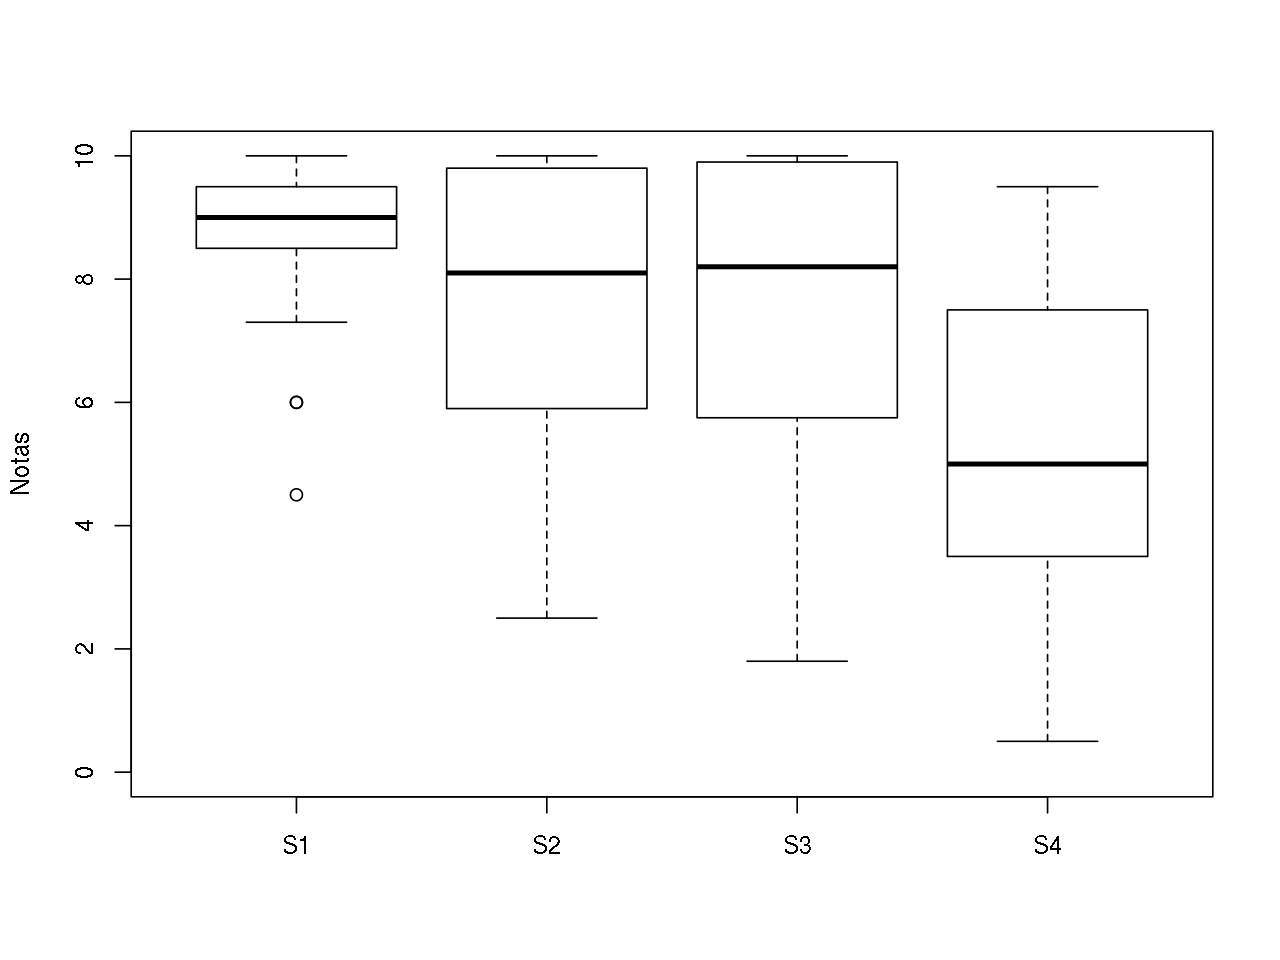
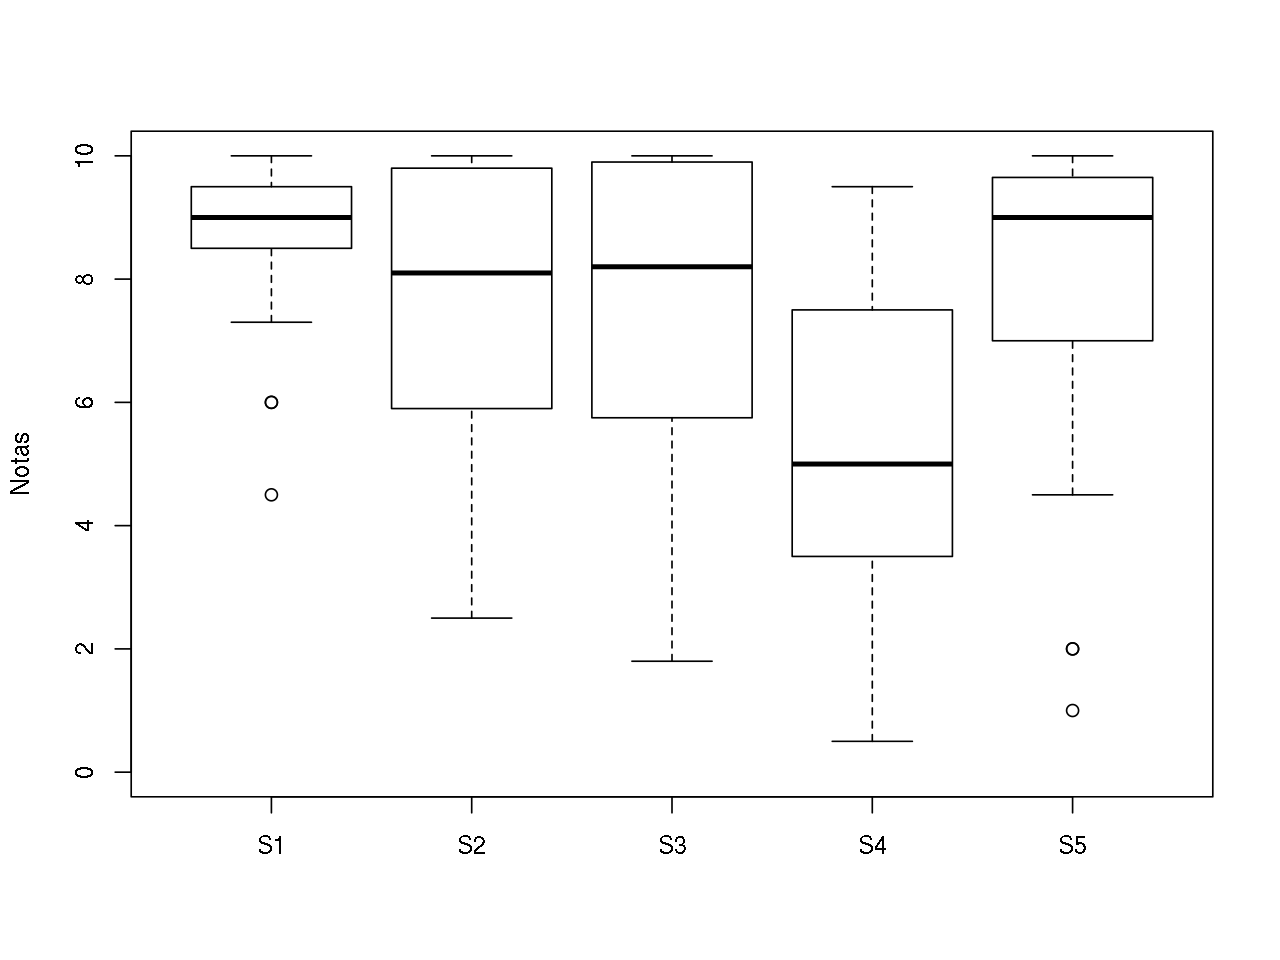
Results from S5

diff --git a/notas.html b/notas.html
@@ -291,7 +291,7 @@ boxplot(notas.all, horizontal = TRUE, ylim = c(0, 10),
 }
 round(statm(notas.all), 2)</code></pre>
 <pre><code>  Min    Q1    Q2    Q3   Max Média     s   NAs 
- 0.50  5.40  8.00  9.50 10.00  7.27  2.46 13.00 </code></pre>
+ 0.50  5.50  8.00  9.50 10.00  7.35  2.46 18.00 </code></pre>
 </div>
 <div id="resumos-por-prova" class="section level2">
 <h2>Resumos por prova</h2>
@@ -301,15 +301,15 @@ boxplot(notas[, notas.col], ylim = c(0, 10), ylab = &quot;Notas&quot;)</code></p
 <p><img src="figures/unnamed-chunk-4-1.png" width="640" style="display: block; margin: auto;" /></p>
 <p>Resumo dos cinco números, média, desvio-padrão, e número de provas não realizadas (NA):</p>
 <pre class="r"><code>round(apply(notas[, notas.col], 2, statm), 2)</code></pre>
-<pre><code>         S1    S2    S3   S4
-Min    4.50  2.50  1.80 0.50
-Q1     8.50  5.90  5.75 3.50
-Q2     9.00  8.10  8.20 5.00
-Q3     9.50  9.80  9.90 7.50
-Max   10.00 10.00 10.00 9.50
-Média  8.74  7.44  7.70 5.19
-s      1.21  2.39  2.20 2.41
-NAs    3.00  3.00  4.00 3.00</code></pre>
+<pre><code>         S1    S2    S3   S4    S5
+Min    4.50  2.50  1.80 0.50  1.00
+Q1     8.50  5.90  5.75 3.50  7.00
+Q2     9.00  8.10  8.20 5.00  9.00
+Q3     9.50  9.80  9.90 7.50  9.65
+Max   10.00 10.00 10.00 9.50 10.00
+Média  8.74  7.44  7.70 5.19  7.71
+s      1.21  2.39  2.20 2.41  2.44
+NAs    3.00  3.00  4.00 3.00  5.00</code></pre>
 </div>
 <div id="notas-individuais" class="section level2">
 <h2>Notas individuais</h2>
@@ -322,6 +322,7 @@ NAs    3.00  3.00  4.00 3.00</code></pre>
 <th align="center">S2</th>
 <th align="center">S3</th>
 <th align="center">S4</th>
+<th align="center">S5</th>
 </tr>
 </thead>
 <tbody>
@@ -331,6 +332,7 @@ NAs    3.00  3.00  4.00 3.00</code></pre>
 <td align="center">5.9</td>
 <td align="center">1.8</td>
 <td align="center">4.0</td>
+<td align="center">7.0</td>
 </tr>
 <tr class="even">
 <td align="center">20124652</td>
@@ -338,6 +340,7 @@ NAs    3.00  3.00  4.00 3.00</code></pre>
 <td align="center">5.3</td>
 <td align="center">2.9</td>
 <td align="center">0.5</td>
+<td align="center">7.0</td>
 </tr>
 <tr class="odd">
 <td align="center">20136720</td>
@@ -345,6 +348,7 @@ NAs    3.00  3.00  4.00 3.00</code></pre>
 <td align="center">9.8</td>
 <td align="center">9.9</td>
 <td align="center">5.0</td>
+<td align="center">9.0</td>
 </tr>
 <tr class="even">
 <td align="center">20149073</td>
@@ -352,6 +356,7 @@ NAs    3.00  3.00  4.00 3.00</code></pre>
 <td align="center">7.0</td>
 <td align="center">8.0</td>
 <td align="center">3.0</td>
+<td align="center">8.0</td>
 </tr>
 <tr class="odd">
 <td align="center">20149110</td>
@@ -359,6 +364,7 @@ NAs    3.00  3.00  4.00 3.00</code></pre>
 <td align="center">8.1</td>
 <td align="center">7.0</td>
 <td align="center">5.5</td>
+<td align="center">7.0</td>
 </tr>
 <tr class="even">
 <td align="center">20149145</td>
@@ -366,6 +372,7 @@ NAs    3.00  3.00  4.00 3.00</code></pre>
 <td align="center">2.5</td>
 <td align="center">5.3</td>
 <td align="center">5.5</td>
+<td align="center">9.0</td>
 </tr>
 <tr class="odd">
 <td align="center">20150149</td>
@@ -373,6 +380,7 @@ NAs    3.00  3.00  4.00 3.00</code></pre>
 <td align="center">2.5</td>
 <td align="center">6.7</td>
 <td align="center">0.5</td>
+<td align="center">6.0</td>
 </tr>
 <tr class="even">
 <td align="center">20150417</td>
@@ -380,6 +388,7 @@ NAs    3.00  3.00  4.00 3.00</code></pre>
 <td align="center">10.0</td>
 <td align="center">10.0</td>
 <td align="center">8.0</td>
+<td align="center">10.0</td>
 </tr>
 <tr class="odd">
 <td align="center">20150452</td>
@@ -387,6 +396,7 @@ NAs    3.00  3.00  4.00 3.00</code></pre>
 <td align="center">3.0</td>
 <td align="center">5.5</td>
 <td align="center">5.0</td>
+<td align="center">9.0</td>
 </tr>
 <tr class="even">
 <td align="center">20150470</td>
@@ -394,6 +404,7 @@ NAs    3.00  3.00  4.00 3.00</code></pre>
 <td align="center">6.0</td>
 <td align="center">6.0</td>
 <td align="center">3.0</td>
+<td align="center">1.0</td>
 </tr>
 <tr class="odd">
 <td align="center">20150836</td>
@@ -401,6 +412,7 @@ NAs    3.00  3.00  4.00 3.00</code></pre>
 <td align="center">10.0</td>
 <td align="center">10.0</td>
 <td align="center">8.0</td>
+<td align="center">10.0</td>
 </tr>
 <tr class="even">
 <td align="center">20150978</td>
@@ -408,6 +420,7 @@ NAs    3.00  3.00  4.00 3.00</code></pre>
 <td align="center">9.8</td>
 <td align="center">10.0</td>
 <td align="center">7.5</td>
+<td align="center">10.0</td>
 </tr>
 <tr class="odd">
 <td align="center">20151292</td>
@@ -415,6 +428,7 @@ NAs    3.00  3.00  4.00 3.00</code></pre>
 <td align="center">7.0</td>
 <td align="center">8.9</td>
 <td align="center">1.5</td>
+<td align="center">6.0</td>
 </tr>
 <tr class="even">
 <td align="center">20151516</td>
@@ -422,6 +436,7 @@ NAs    3.00  3.00  4.00 3.00</code></pre>
 <td align="center">10.0</td>
 <td align="center">9.9</td>
 <td align="center">5.0</td>
+<td align="center">9.5</td>
 </tr>
 <tr class="odd">
 <td align="center">20152147</td>
@@ -429,6 +444,7 @@ NAs    3.00  3.00  4.00 3.00</code></pre>
 <td align="center">6.5</td>
 <td align="center">5.3</td>
 <td align="center">4.5</td>
+<td align="center">7.0</td>
 </tr>
 <tr class="even">
 <td align="center">20152591</td>
@@ -436,9 +452,11 @@ NAs    3.00  3.00  4.00 3.00</code></pre>
 <td align="center">9.5</td>
 <td align="center">8.4</td>
 <td align="center">7.5</td>
+<td align="center">10.0</td>
 </tr>
 <tr class="odd">
 <td align="center">20152736</td>
+<td align="center">NA</td>
 <td align="center">NA</td>
 <td align="center">NA</td>
 <td align="center">NA</td>
@@ -450,6 +468,7 @@ NAs    3.00  3.00  4.00 3.00</code></pre>
 <td align="center">NA</td>
 <td align="center">NA</td>
 <td align="center">NA</td>
+<td align="center">NA</td>
 </tr>
 <tr class="odd">
 <td align="center">20152988</td>
@@ -457,6 +476,7 @@ NAs    3.00  3.00  4.00 3.00</code></pre>
 <td align="center">9.8</td>
 <td align="center">7.0</td>
 <td align="center">7.5</td>
+<td align="center">10.0</td>
 </tr>
 <tr class="even">
 <td align="center">20153016</td>
@@ -464,6 +484,7 @@ NAs    3.00  3.00  4.00 3.00</code></pre>
 <td align="center">10.0</td>
 <td align="center">NA</td>
 <td align="center">8.5</td>
+<td align="center">10.0</td>
 </tr>
 <tr class="odd">
 <td align="center">20153599</td>
@@ -471,6 +492,7 @@ NAs    3.00  3.00  4.00 3.00</code></pre>
 <td align="center">4.8</td>
 <td align="center">5.0</td>
 <td align="center">3.5</td>
+<td align="center">NA</td>
 </tr>
 <tr class="even">
 <td align="center">20153646</td>
@@ -478,6 +500,7 @@ NAs    3.00  3.00  4.00 3.00</code></pre>
 <td align="center">6.8</td>
 <td align="center">7.3</td>
 <td align="center">4.8</td>
+<td align="center">9.8</td>
 </tr>
 <tr class="odd">
 <td align="center">20154101</td>
@@ -485,6 +508,7 @@ NAs    3.00  3.00  4.00 3.00</code></pre>
 <td align="center">9.5</td>
 <td align="center">10.0</td>
 <td align="center">7.0</td>
+<td align="center">9.0</td>
 </tr>
 <tr class="even">
 <td align="center">20154112</td>
@@ -492,6 +516,7 @@ NAs    3.00  3.00  4.00 3.00</code></pre>
 <td align="center">4.0</td>
 <td align="center">7.5</td>
 <td align="center">3.5</td>
+<td align="center">7.0</td>
 </tr>
 <tr class="odd">
 <td align="center">20154179</td>
@@ -499,6 +524,7 @@ NAs    3.00  3.00  4.00 3.00</code></pre>
 <td align="center">9.5</td>
 <td align="center">9.9</td>
 <td align="center">7.0</td>
+<td align="center">9.0</td>
 </tr>
 <tr class="even">
 <td align="center">20154443</td>
@@ -506,6 +532,7 @@ NAs    3.00  3.00  4.00 3.00</code></pre>
 <td align="center">8.0</td>
 <td align="center">9.0</td>
 <td align="center">9.0</td>
+<td align="center">8.0</td>
 </tr>
 <tr class="odd">
 <td align="center">20154966</td>
@@ -513,6 +540,7 @@ NAs    3.00  3.00  4.00 3.00</code></pre>
 <td align="center">9.8</td>
 <td align="center">10.0</td>
 <td align="center">9.5</td>
+<td align="center">10.0</td>
 </tr>
 <tr class="even">
 <td align="center">20155156</td>
@@ -520,6 +548,7 @@ NAs    3.00  3.00  4.00 3.00</code></pre>
 <td align="center">5.5</td>
 <td align="center">8.9</td>
 <td align="center">5.0</td>
+<td align="center">2.0</td>
 </tr>
 <tr class="odd">
 <td align="center">20155208</td>
@@ -527,6 +556,7 @@ NAs    3.00  3.00  4.00 3.00</code></pre>
 <td align="center">3.5</td>
 <td align="center">9.0</td>
 <td align="center">2.5</td>
+<td align="center">7.0</td>
 </tr>
 <tr class="even">
 <td align="center">20156753</td>
@@ -534,6 +564,7 @@ NAs    3.00  3.00  4.00 3.00</code></pre>
 <td align="center">9.8</td>
 <td align="center">8.5</td>
 <td align="center">8.0</td>
+<td align="center">10.0</td>
 </tr>
 <tr class="odd">
 <td align="center">20157092</td>
@@ -541,6 +572,7 @@ NAs    3.00  3.00  4.00 3.00</code></pre>
 <td align="center">9.1</td>
 <td align="center">5.0</td>
 <td align="center">3.0</td>
+<td align="center">NA</td>
 </tr>
 <tr class="even">
 <td align="center">20157880</td>
@@ -548,6 +580,7 @@ NAs    3.00  3.00  4.00 3.00</code></pre>
 <td align="center">5.0</td>
 <td align="center">9.8</td>
 <td align="center">5.0</td>
+<td align="center">2.0</td>
 </tr>
 <tr class="odd">
 <td align="center">20158399</td>
@@ -555,6 +588,7 @@ NAs    3.00  3.00  4.00 3.00</code></pre>
 <td align="center">6.8</td>
 <td align="center">9.0</td>
 <td align="center">3.5</td>
+<td align="center">4.5</td>
 </tr>
 <tr class="even">
 <td align="center">20159053</td>
@@ -562,6 +596,7 @@ NAs    3.00  3.00  4.00 3.00</code></pre>
 <td align="center">8.6</td>
 <td align="center">5.4</td>
 <td align="center">5.5</td>
+<td align="center">9.0</td>
 </tr>
 <tr class="odd">
 <td align="center">20159109</td>
@@ -569,6 +604,7 @@ NAs    3.00  3.00  4.00 3.00</code></pre>
 <td align="center">8.1</td>
 <td align="center">7.0</td>
 <td align="center">7.5</td>
+<td align="center">9.0</td>
 </tr>
 <tr class="even">
 <td align="center">20159160</td>
@@ -576,6 +612,7 @@ NAs    3.00  3.00  4.00 3.00</code></pre>
 <td align="center">10.0</td>
 <td align="center">10.0</td>
 <td align="center">7.5</td>
+<td align="center">9.0</td>
 </tr>
 <tr class="odd">
 <td align="center">20159633</td>
@@ -583,6 +620,7 @@ NAs    3.00  3.00  4.00 3.00</code></pre>
 <td align="center">8.1</td>
 <td align="center">8.0</td>
 <td align="center">4.3</td>
+<td align="center">8.0</td>
 </tr>
 <tr class="even">
 <td align="center">20159711</td>
@@ -590,10 +628,12 @@ NAs    3.00  3.00  4.00 3.00</code></pre>
 <td align="center">9.0</td>
 <td align="center">10.0</td>
 <td align="center">5.0</td>
+<td align="center">5.0</td>
 </tr>
 <tr class="odd">
 <td align="center">20159781</td>
 <td align="center">8.0</td>
+<td align="center">NA</td>
 <td align="center">NA</td>
 <td align="center">NA</td>
 <td align="center">NA</td>
@@ -604,6 +644,7 @@ NAs    3.00  3.00  4.00 3.00</code></pre>
 <td align="center">6.6</td>
 <td align="center">5.4</td>
 <td align="center">1.0</td>
+<td align="center">6.0</td>
 </tr>
 </tbody>
 </table>
